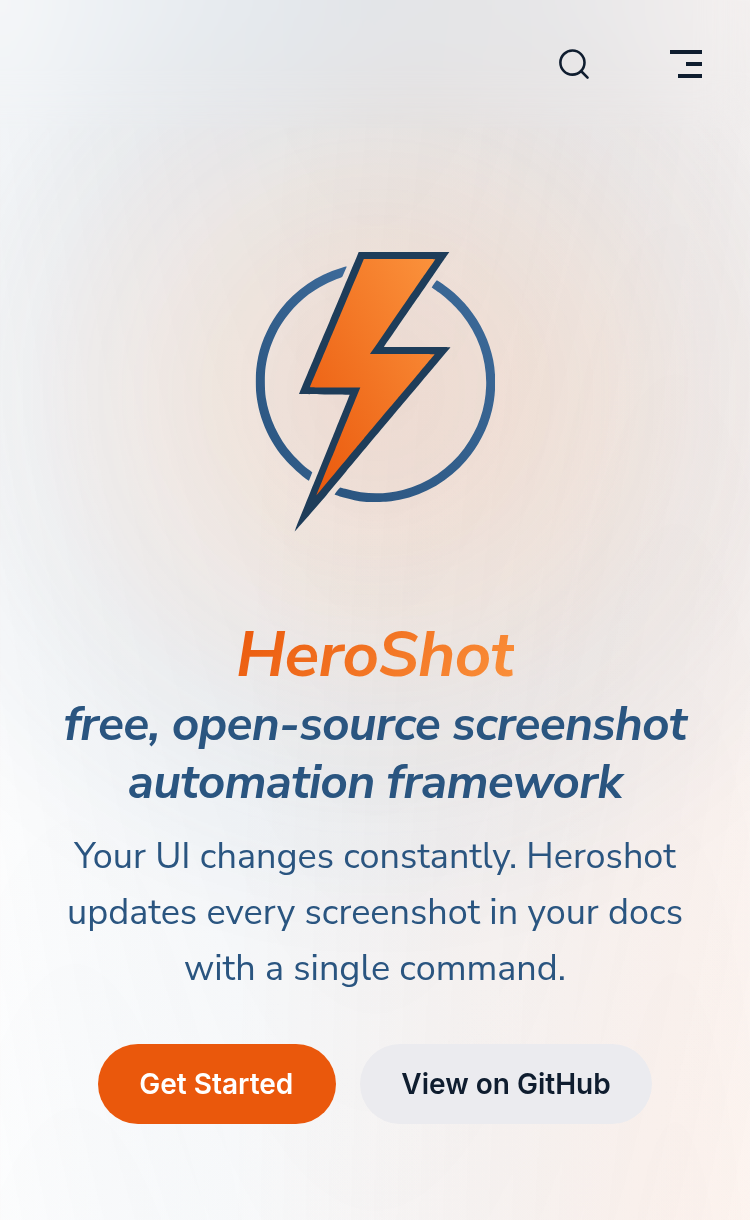
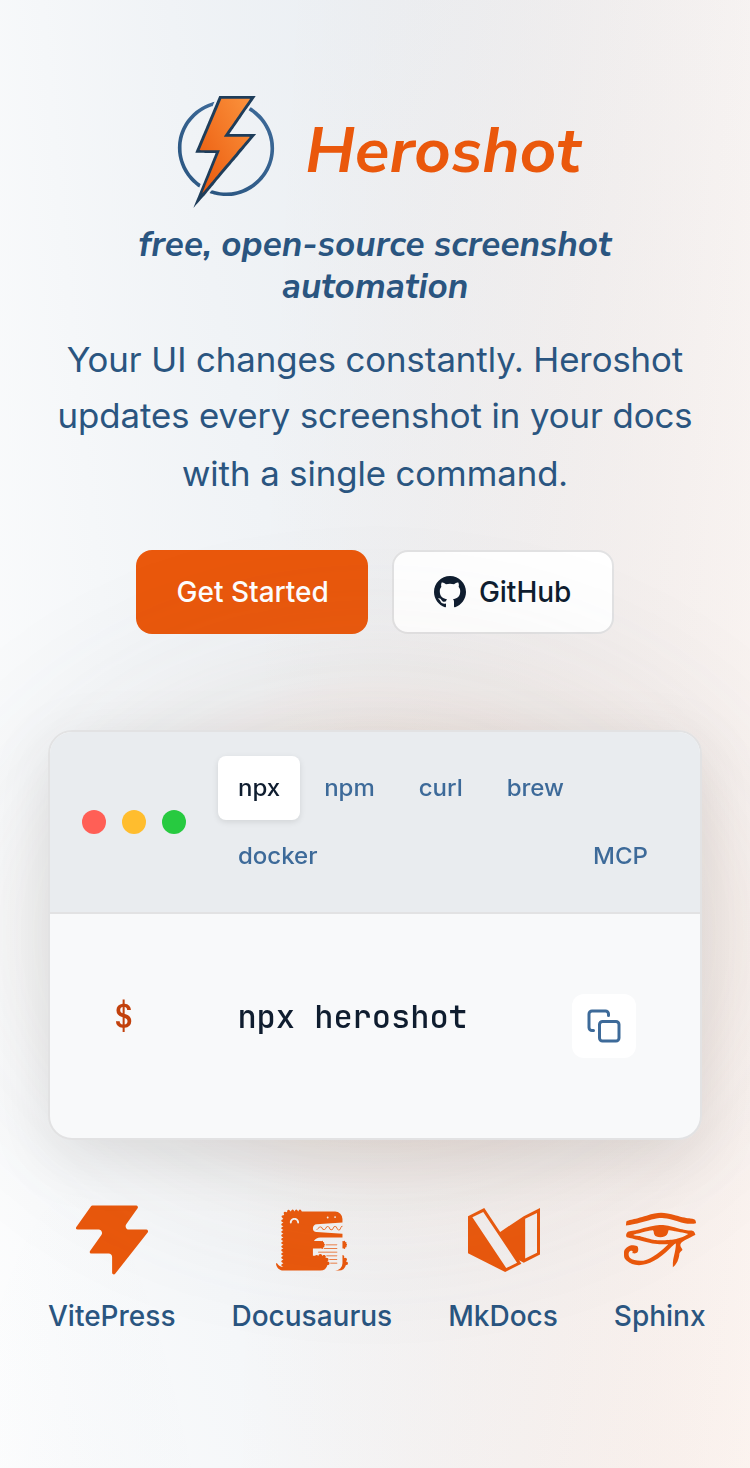
feat: simplify terminal UI - remove dots and MCP tab

diff --git a/docs/.vitepress/theme/components/CustomHero.vue b/docs/.vitepress/theme/components/CustomHero.vue
@@ -17,18 +17,6 @@ const platforms = [
   { id: 'curl', label: 'curl', command: 'curl -fsSL https://heroshot.sh/install.sh | bash' },
   { id: 'brew', label: 'brew', command: 'brew install heroshot' },
   { id: 'docker', label: 'docker', command: 'docker run -it heroshot/heroshot' },
-  {
-    id: 'mcp',
-    label: 'MCP',
-    command: `{
-  "heroshot": {
-    "command": "npx",
-    "args": ["-y", "heroshot-mcp"]
-  }
-}`,
-    icon: '/icons/robot.svg',
-    multiline: true,
-  },
 ];
 
 const activePlatform = ref('npx');
@@ -120,11 +108,6 @@ const copyCommand = async () => {
       <div class="terminal-wrapper">
         <div class="terminal">
           <div class="terminal-header">
-            <div class="terminal-dots">
-              <span class="dot red"></span>
-              <span class="dot yellow"></span>
-              <span class="dot green"></span>
-            </div>
             <div class="terminal-tabs">
               <button
                 v-for="platform in platforms"
@@ -455,41 +438,15 @@ const copyCommand = async () => {
 .terminal-header {
   display: flex;
   align-items: center;
-  gap: 16px;
   padding: 12px 16px;
   background: #e9ecef;
   border-bottom: 1px solid var(--vp-c-divider);
-}
-
-.terminal-dots {
-  display: flex;
-  gap: 8px;
-}
-
-.dot {
-  width: 12px;
-  height: 12px;
-  border-radius: 50%;
-}
-
-.dot.red {
-  background: #ff5f56;
-}
-.dot.yellow {
-  background: #ffbd2e;
-}
-.dot.green {
-  background: #27ca40;
 }
 
 .terminal-tabs {
   display: flex;
   flex: 1;
   gap: 2px;
-}
-
-.terminal-tabs button:last-child {
-  margin-left: auto;
 }
 
 .terminal-tabs button {
